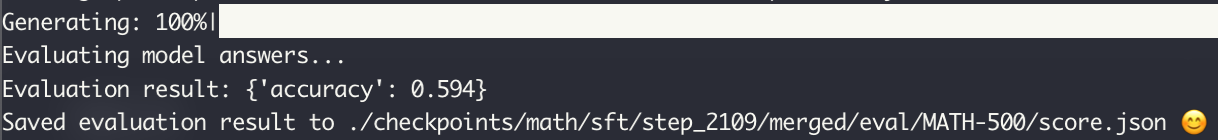
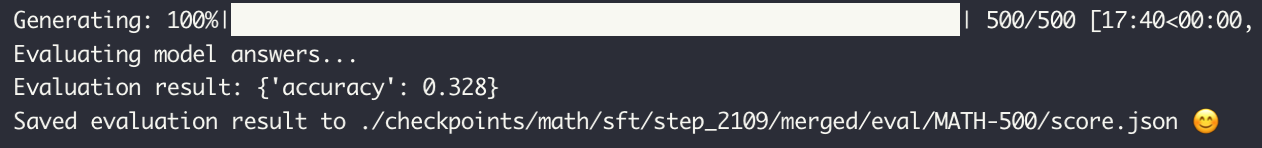
Complete rollout

Changed region(s): [[0.0, 0.0, 1.0, 0.4857], [0.0, 0.7429, 0.9984, 0.9714], [0.0, 0.5143, 0.4056, 0.7143]]

diff --git a/nanorlhf/nanoverl/utils/rollout_utils.py b/nanorlhf/nanoverl/utils/rollout_utils.py
@@ -23,12 +23,9 @@ class RolloutManager:
     def create_schedulers(self):
         schedulers = []
         for data_parallel_rank in range(self.data_parallel_size):
-            for tensor_parallel_rank in range(self.tensor_parallel_size):
-                worker = self.workers[data_parallel_rank][tensor_parallel_rank]
-                scheduler = Scheduler(
-                    nanoray.get(worker.get_rollout_config.remote(blocking=True))
-                )
-                schedulers.append(scheduler)
+            worker = self.workers[data_parallel_rank][0]
+            scheduler = Scheduler(nanoray.get(worker.get_rollout_config.remote(blocking=True)))
+            schedulers.append(scheduler)
         return schedulers
 
     def rollout(self, batches):
@@ -75,10 +72,10 @@ class RolloutManager:
         scheduler = self.schedulers[data_parallel_rank]
         sequences = []
         for prompt in unpacked_prompts:
-            sequence = Sequence(
-                token_ids=prompt["input_ids"][0].tolist(),
-                sampling_params=self.sampling_params,
-            )
+            token_ids = prompt["input_ids"][0].tolist()
+            if len(token_ids) == 0:
+                raise ValueError(f"Got empty prompt after unpack_sequences()\ntoken_ids: {token_ids}")
+            sequence = Sequence(token_ids, sampling_params=self.sampling_params)
             scheduler.add(sequence)
             sequences.append(sequence)
         return sequences
@@ -97,6 +94,7 @@ class RolloutManager:
                     object_ref = runner.run.remote(sequences, is_prefill, blocking=False)
                     object_refs.append(object_ref)
                 token_ids = nanoray.get(object_refs)[0]
+                print(f"[R{data_parallel_rank}]: {token_ids}")
                 scheduler.postprocess(sequences, token_ids)
 
     def repack_outputs(self, data_parallel_unpacked_batches, data_parallel_outputs):

diff --git a/nanorlhf/nanoverl/trainer/rl_trainer.py b/nanorlhf/nanoverl/trainer/rl_trainer.py
@@ -41,17 +41,8 @@ class RLTrainer:
     def init_ray(self, config):
         nodes = {}
         base_port = 9200
-        for rank in range(self.config.rollout.nproc_per_node):
-            nodes[f"rollout-global_rank={rank}"] = nanoray.NodeConfig(
-                cpus=4.0,
-                gpus=1.0,
-                rpc=True,
-                host=config.actor.host,
-                port=base_port + rank,
-            )
 
         for rank in range(self.config.actor.nproc_per_node):
-            rank = rank + self.config.rollout.nproc_per_node
             nodes[f"actor-global_rank={rank}"] = nanoray.NodeConfig(
                 cpus=4.0,
                 gpus=1.0,
@@ -60,7 +51,17 @@ class RLTrainer:
                 port=base_port + rank,
             )
 
-        session = nanoray.init(nodes, default_node_id=f"actor-global_rank=1")
+        for rank in range(self.config.rollout.nproc_per_node):
+            rank = rank + self.config.actor.nproc_per_node
+            nodes[f"rollout-global_rank={rank}"] = nanoray.NodeConfig(
+                cpus=4.0,
+                gpus=1.0,
+                rpc=True,
+                host=config.actor.host,
+                port=base_port + rank,
+            )
+
+        session = nanoray.init(nodes, default_node_id=f"actor-global_rank=0")
         node_ids = list(session._workers.keys())
         if len(node_ids) < self.config.actor.nproc_per_node + self.config.rollout.nproc_per_node:
             raise RuntimeError(
@@ -158,3 +159,4 @@ if __name__ == '__main__':
     parser = ArgumentParser()
     parser.add_argument("--config", type=str, required=True, help="Path to the RL config yaml file.")
     trainer = RLTrainer(parser.parse_args().config)
+    trainer.fit()

diff --git a/nanorlhf/nanoverl/configs/rl_config.py b/nanorlhf/nanoverl/configs/rl_config.py
@@ -155,6 +155,24 @@ class RLConfig:
                 f"valid_micro_batch_size={self.data.valid_micro_batch_size}."
             )
 
+        assert (
+            self.rollout.data_parallel_size > 0
+        ), f"rollout.data_parallel_size must be > 0, got {self.rollout.data_parallel_size}"
+
+        assert self.data.train_batch_size % self.rollout.data_parallel_size == 0, (
+            "train_batch_size must be divisible by rollout.data_parallel_size to avoid silently dropping sequences.\n"
+            f"Got train_batch_size={self.data.train_batch_size}, rollout_dp={self.rollout.data_parallel_size}, "
+            f"remainder={self.data.train_batch_size % self.rollout.data_parallel_size}.\n"
+            "Fix: set train_batch_size = k * rollout_dp."
+        )
+
+        assert self.data.valid_batch_size % self.rollout.data_parallel_size == 0, (
+            "valid_batch_size must be divisible by rollout.data_parallel_size to avoid silently dropping sequences.\n"
+            f"Got valid_batch_size={self.data.valid_batch_size}, rollout_dp={self.rollout.data_parallel_size}, "
+            f"remainder={self.data.valid_batch_size % self.rollout.data_parallel_size}.\n"
+            "Fix: set valid_batch_size = k * rollout_dp."
+        )
+
     @classmethod
     def from_yaml(cls, file_path: str) -> "RLConfig":
         with open(file_path, "r") as f:

diff --git a/nanorlhf/nanoverl/utils/packing_utils.py b/nanorlhf/nanoverl/utils/packing_utils.py
@@ -110,11 +110,13 @@ def split_packed_batch(
 
 def unpack_sequences(input_ids, position_ids, reward_model_list):
     assert input_ids.size(0) == 1
-    starts = (position_ids == 0).nonzero(as_tuple=False).flatten().tolist()
+    starts = (position_ids[0] == 0).nonzero(as_tuple=False).flatten().tolist()
     ends = starts[1:] + [input_ids.numel()]
     unpacked_sequences = []
 
     for i, (s, e) in enumerate(zip(starts, ends)):
+        if e <= s:
+            continue
         reward_model = reward_model_list[i] if reward_model_list is not None else None
         unpacked_input_ids = input_ids[:, s:e]
         unpacked_position_ids = position_ids[:, s:e]

diff --git a/nanorlhf/nanoverl/utils/merge_model.py b/nanorlhf/nanoverl/utils/merge_model.py
@@ -40,6 +40,8 @@ class ModelMerger:
             data_parallel_size=data_parallel_size,
             pipeline_parallel_size=pipeline_parallel_size,
             tensor_parallel_size=tensor_parallel_size,
+            rollout_data_parallel_size=0,
+            rollout_tensor_parallel_size=0,
             backend=config.model.backend,
             seed=config.model.seed,
         )
